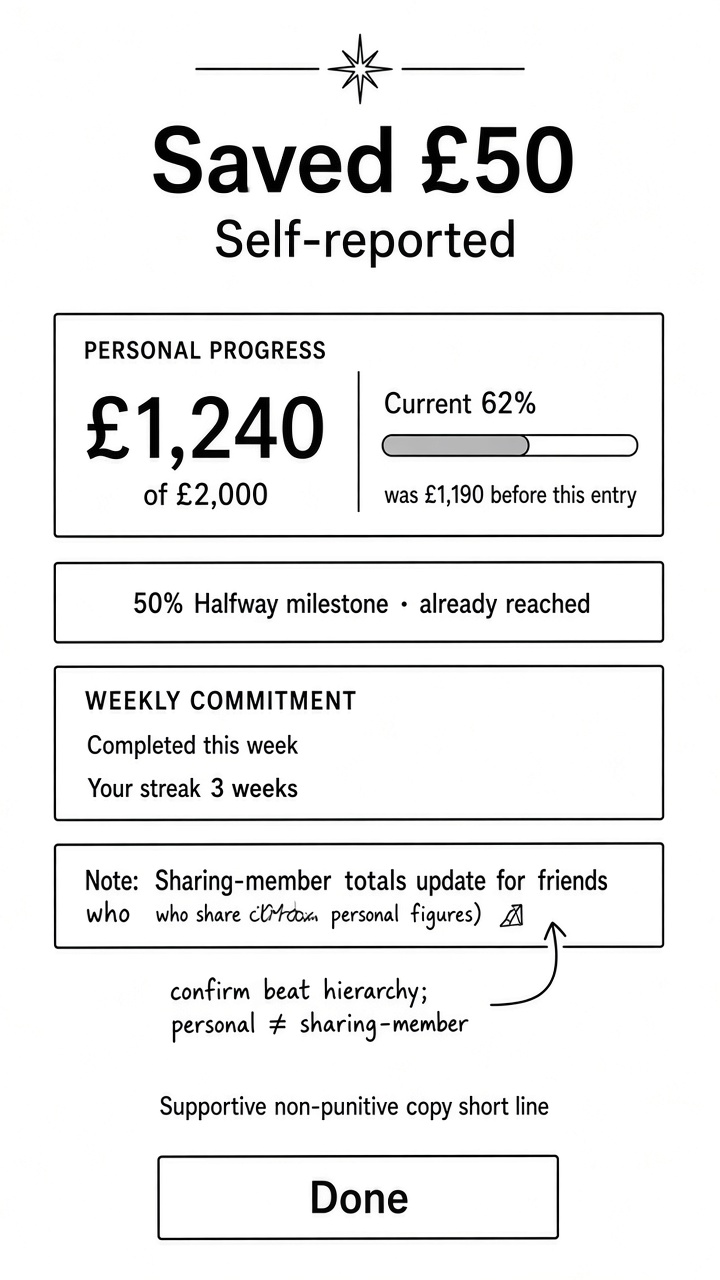
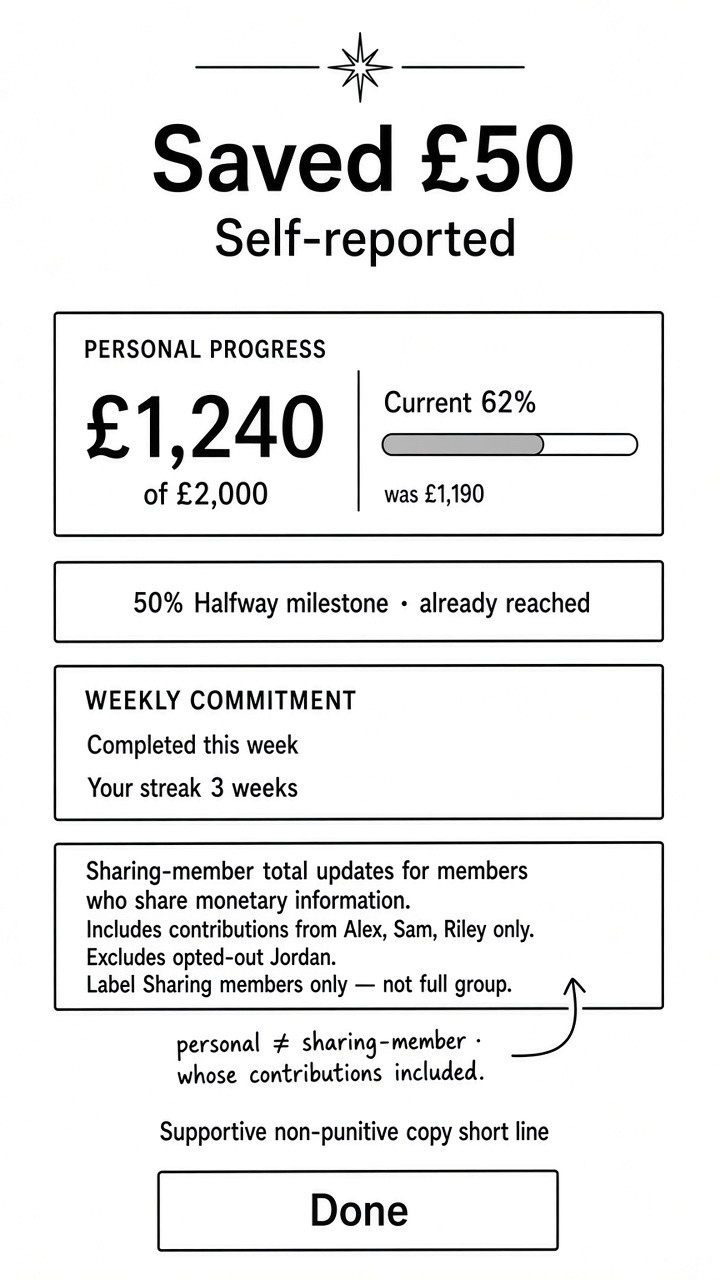
Re-sync corrected A+B wireframes before PO sign-off.
Overwrite wireframe markdown and JPGs (Sam 65%, pre-join privacy disclosure, sharing-member explainers, no Leaderboard on privacy) and keep docs/media/wireframes mirror in sync.

diff --git a/docs/design/wireframes/privacy-flow.md b/docs/design/wireframes/privacy-flow.md
@@ -2,7 +2,7 @@
 
 | Field | Value |
 | --- | --- |
-| Pass | A+B mobile wireframes — authorised structure pass |
+| Pass | A+B mobile wireframes — correction before PO sign-off |
 | Fidelity | Low / annotated wireframe — **not** mid-fi |
 | Rule | G1.1-06 (privacy / sharing-member totals); G1.1-07 (invite preview constraints) |
 | Viewport | Mobile only |
@@ -11,9 +11,9 @@
 
 ## Artifact A — Privacy settings (one monetary control)
 
-<img src="../../media/wireframes/privacy-settings.jpg" alt="Privacy settings wireframe: default visible to approved members, single Hide monetary information opt-out OFF, preview states" />
+<img src="../../../media/wireframes/privacy-settings.jpg" alt="Privacy settings: default visible, opt-out OFF, warning cannot undo prior visibility, Home Challenge Activity Profile nav" />
 
-Path: `media/wireframes/privacy-settings.jpg` (checkout); embed via `../../media/wireframes/privacy-settings.jpg`
+Path: `/cursor/stores/bc-01a1cb7f-3748-76b6-a0c6-6560b08a6ca8/media/wireframes/privacy-settings.jpg`
 
 ### Structure
 
@@ -21,41 +21,42 @@ Path: `media/wireframes/privacy-settings.jpg` (checkout); embed via `../../media
 | --- | --- |
 | Default copy | Monetary information is visible to **approved challenge members** by default |
 | Control | **One** toggle: **Hide monetary information (opt-out)** — default **OFF** |
+| **Warning** | **Opting out cannot undo what others already saw.** |
 | When ON | Hides **amounts AND individual target**; excludes member from **Sharing members only** aggregates |
 | Self view | User always sees own authorised financial information |
 | Preview | Default: Alex · £1,240 of £2,000 · Self-reported · Opted out: Alex · Private · no amount · no target |
 | Totals labelling | **Sharing members only** — not full group |
 | Save | Applies across feed, exports, notifications (product rule) |
+| Bottom nav | **Home · Challenge · Activity · Profile** only — **no Leaderboard** |
 
 ### Must not
 
 - Say “private by default” or imply opt-in-to-share as the default
 - Offer separate toggles for amounts vs targets
+- Show a Leaderboard tab
 - Invent small-group aggregate edge-case UI (open product question)
-
-### Image correction note
-
-Bottom nav in the artifact may vary; canonical working proposal remains **Home · Challenge · Activity · Profile** (exact labels **OPEN**). No leaderboard tab in MVP wireframes.
 
 ---
 
-## Artifact B — Join disclosure (before savings setup)
+## Artifact B — Financial privacy disclosure **before joining**
 
-<img src="../../media/wireframes/privacy-disclosure-join.jpg" alt="Financial privacy disclosure wireframe after approval: default visibility, opt-out explanation, acknowledgement, continue to set target" />
+<img src="../../../media/wireframes/privacy-disclosure-join.jpg" alt="Financial privacy before join: disclosures, cannot-undo warning, acknowledgement prerequisite, Continue to request join disabled until checked" />
 
-Path: `media/wireframes/privacy-disclosure-join.jpg` (checkout); embed via `../../media/wireframes/privacy-disclosure-join.jpg`
+Path: `/cursor/stores/bc-01a1cb7f-3748-76b6-a0c6-6560b08a6ca8/media/wireframes/privacy-disclosure-join.jpg`
 
 ### Structure
 
 | Block | Treatment |
 | --- | --- |
+| Placement | **Before joining** (after invite preview; before request join) |
 | Context | Challenge name only (Portugal 2027) — invite preview never exposed amounts (G1.1-07) |
-| Disclosure 1 | Default: amounts + target visible to approved challenge members |
+| Disclosure 1 | Default: amounts + target visible to approved challenge members after you join |
 | Disclosure 2 | Opt-out **Hide monetary information** hides amounts **and** target; excludes from Sharing members only totals |
 | Disclosure 3 | You always see your own figures |
-| Ack | Checkbox: I understand how monetary visibility works |
-| Primary | Continue to set my target |
-| Secondary | Review privacy settings |
+| **Warning** | **Opting out cannot undo what others already saw.** |
+| Ack | Checkbox: I understand how monetary visibility works — **prerequisite** |
+| Primary | **Continue to request join** — **disabled until acknowledgement is checked** |
+| Secondary | Cancel / back to invite preview |
 
 ### Image correction note
 
@@ -69,11 +70,14 @@ Any multi-step progress indicator is **illustrative only**. Exact join/setup ste
 Profile → Privacy
   → Default copy (approved challenge members)
   → Single opt-out: Hide monetary information
+  → Warning: opting out cannot undo what others already saw
   → Explainer + roster/total preview
   → Save
 
-Invite → Request join → Owner approval
-  → Financial privacy acknowledgement (this disclosure)
+Invite preview (G1.1-07 — no amounts)
+  → Financial privacy disclosure (BEFORE joining)
+  → Acknowledgement required (Continue disabled until checked)
+  → Request join → Owner approval
   → Configure personal target + weekly commitment
   → Then recording savings is allowed
 ```

diff --git a/docs/design/wireframes/README.md b/docs/design/wireframes/README.md
@@ -2,7 +2,7 @@
 
 | Field | Value |
 | --- | --- |
-| Pass | Authorised design pass after Gate 2.2 A+B approval |
+| Pass | Authorised design pass after Gate 2.2 A+B approval (+ pre-sign-off corrections) |
 | Status | **Ready for PO review** — stop here |
 | Fidelity | Mobile wireframes only (grayscale / lightly annotated) |
 | Not authorised yet | Mid-fi polish · implementation · components · installs |
@@ -26,14 +26,14 @@
 
 ### Media (`media/wireframes/`)
 
-| File | Checkout path |
+| File | Absolute path |
 | --- | --- |
-| `dashboard-home.jpg` | `media/wireframes/dashboard-home.jpg` |
-| `challenge-activity.jpg` | `media/wireframes/challenge-activity.jpg` |
-| `contribution-amount.jpg` | `media/wireframes/contribution-amount.jpg` |
-| `contribution-confirm.jpg` | `media/wireframes/contribution-confirm.jpg` |
-| `privacy-settings.jpg` | `media/wireframes/privacy-settings.jpg` |
-| `privacy-disclosure-join.jpg` | `media/wireframes/privacy-disclosure-join.jpg` |
+| `dashboard-home.jpg` | `/cursor/stores/bc-01a1cb7f-3748-76b6-a0c6-6560b08a6ca8/media/wireframes/dashboard-home.jpg` |
+| `challenge-activity.jpg` | `/cursor/stores/bc-01a1cb7f-3748-76b6-a0c6-6560b08a6ca8/media/wireframes/challenge-activity.jpg` |
+| `contribution-amount.jpg` | `/cursor/stores/bc-01a1cb7f-3748-76b6-a0c6-6560b08a6ca8/media/wireframes/contribution-amount.jpg` |
+| `contribution-confirm.jpg` | `/cursor/stores/bc-01a1cb7f-3748-76b6-a0c6-6560b08a6ca8/media/wireframes/contribution-confirm.jpg` |
+| `privacy-settings.jpg` | `/cursor/stores/bc-01a1cb7f-3748-76b6-a0c6-6560b08a6ca8/media/wireframes/privacy-settings.jpg` |
+| `privacy-disclosure-join.jpg` | `/cursor/stores/bc-01a1cb7f-3748-76b6-a0c6-6560b08a6ca8/media/wireframes/privacy-disclosure-join.jpg` |
 
 ---
 
@@ -47,8 +47,10 @@
 | Weekly commitment | **£50** · Completed this week |
 | Streak | **Your streak · 3 weeks** |
 | Sharing-member total | **£3,080 of £5,500** · **Sharing members only** |
-| Roster | Alex / Sam £980 of £1,500 / Riley £860 of £2,000 (43%) / Jordan **Private** |
+| Roster | Alex / Sam £980 of £1,500 (**65%**) / Riley £860 of £2,000 (43%) / Jordan **Private** |
 | Privacy default | Visible to **approved challenge members**; **opt-out** hides amounts **and** target |
+| Privacy warning | Opting out **cannot undo** what others already saw |
+| Join disclosure | **Before joining**; acknowledgement **prerequisite** to continue |
 
 ---
 
@@ -58,6 +60,11 @@
 - [x] **50% milestone** shown separately from **62% current**
 - [x] Weekly commitment + **Your streak**
 - [x] Sharing-member aggregate labelled (not full-group total)
+- [x] Contribution screens explain **whose** contributions are included (Alex/Sam/Riley; excludes Jordan)
+- [x] Sam roster progress **65%** with matching bar
+- [x] Privacy disclosure **before joining**; ack prerequisite
+- [x] Opt-out warning: cannot undo prior visibility
+- [x] No Leaderboard tab on privacy sketch
 - [x] Privacy cues (Private lock; default ≠ private-by-default)
 - [x] Synthetic **self-reported** labelling
 - [x] Pause treated as status-only — no invented duration/resume
@@ -89,6 +96,14 @@ Local watched-folder re-sync: **coordinator-dispatched** after Context lands —
 
 ---
 
-## 6. Artifact caveats (for reviewers)
+## 6. Pre-sign-off corrections (this pass)
 
-Wireframe images are structure studies. Prefer markdown hierarchy tables when an image label drifts (e.g. “Best streak” → **Your streak**; non-canonical bottom-nav icons; illustrative join step counts). Content authority for sample figures and privacy copy is this pack’s markdown + Gate 2.2 reconciled set.
+1. Financial privacy disclosure moved to **before joining**; Continue disabled until acknowledgement.
+2. Warning added on disclosure + privacy settings: opting out **cannot undo** what others already saw.
+3. **Leaderboard** removed from privacy bottom nav (Home · Challenge · Activity · Profile only).
+4. Both contribution screens + notes explain whose contributions are in the **sharing-member total**.
+5. Sam progress corrected to **65%** with updated bar on challenge activity.
+
+## 7. Artifact caveats (for reviewers)
+
+Wireframe images are structure studies. Prefer markdown hierarchy tables when an image label drifts (e.g. “Best streak” → **Your streak**; illustrative join step counts). Content authority for sample figures and privacy copy is this pack’s markdown + Gate 2.2 reconciled set (with Sam **65%** correction above).

diff --git a/docs/design/wireframes/contribution-flow.md b/docs/design/wireframes/contribution-flow.md
@@ -2,7 +2,7 @@
 
 | Field | Value |
 | --- | --- |
-| Pass | A+B mobile wireframes — authorised structure pass |
+| Pass | A+B mobile wireframes — correction before PO sign-off |
 | Fidelity | Low / annotated wireframe — **not** mid-fi |
 | Direction | A+B |
 | Viewport | Mobile only |
@@ -14,9 +14,9 @@
 
 ### Step A — Amount entry
 
-<img src="../../media/wireframes/contribution-amount.jpg" alt="Record savings wireframe: £50 amount, date, self-reported labelling, Continue to confirm" />
+<img src="../../../media/wireframes/contribution-amount.jpg" alt="Record savings: £50, self-reported, sharing-member total includes Alex Sam Riley excludes Jordan" />
 
-Path: `media/wireframes/contribution-amount.jpg` (checkout); embed via `../../media/wireframes/contribution-amount.jpg`
+Path: `/cursor/stores/bc-01a1cb7f-3748-76b6-a0c6-6560b08a6ca8/media/wireframes/contribution-amount.jpg`
 
 | Element | Wireframe treatment |
 | --- | --- |
@@ -26,16 +26,16 @@ Path: `media/wireframes/contribution-amount.jpg` (checkout); embed via `../../me
 | Date | Within permitted period (sample date only) |
 | Labelling | **Self-reported** · not a bank deposit |
 | Helper | Updates personal progress + weekly commitment |
-| Privacy note | Sharing-member totals update only for friends who share (G1.1-06) |
+| **Sharing-member total explainer** | Includes contributions and targets **only from members who share monetary information** (sample: **Alex, Sam, Riley**). **Excludes** opted-out members (**Jordan**). Label: **Sharing members only** — not the full group. |
 | Actions | Cancel · Continue to confirm |
 
 No invented backdating / week-allocation UI (G1.1-05 open items remain open).
 
 ### Step B — Confirmation
 
-<img src="../../media/wireframes/contribution-confirm.jpg" alt="Contribution confirm: Saved £50, personal £1,240/£2,000 at 62%, separate 50% Halfway already reached, Your streak 3, Done" />
+<img src="../../../media/wireframes/contribution-confirm.jpg" alt="Confirm Saved £50: personal 62%, separate 50% Halfway, sharing-member total includes Alex Sam Riley only" />
 
-Path: `media/wireframes/contribution-confirm.jpg` (checkout); embed via `../../media/wireframes/contribution-confirm.jpg`
+Path: `/cursor/stores/bc-01a1cb7f-3748-76b6-a0c6-6560b08a6ca8/media/wireframes/contribution-confirm.jpg`
 
 ### Confirm hierarchy (reconciled beat)
 
@@ -45,7 +45,7 @@ Path: `media/wireframes/contribution-confirm.jpg` (checkout); embed via `../../m
 | 2 | Personal progress | Now **£1,240 of £2,000** · **Current 62%** (from £1,190) |
 | 2b | Milestone (separate) | **50% Halfway milestone · already reached** — not conflated with 62% |
 | 3 | Weekly commitment | Completed this week · **Your streak · 3 weeks** |
-| 4 | Sharing-member note | Totals update for friends who share — distinct from personal figures |
+| 4 | **Sharing-member total explainer** | Updates for members who share monetary information. Includes contributions from **Alex, Sam, Riley only**. Excludes opted-out **Jordan**. Label **Sharing members only** — not full group. Distinct from personal figures. |
 | 5 | Tone | Supportive, non-punitive (placeholder copy in wireframe) |
 | 6 | CTA | **Done** |
 

diff --git a/docs/design/wireframes/challenge-activity.md b/docs/design/wireframes/challenge-activity.md
@@ -2,7 +2,7 @@
 
 | Field | Value |
 | --- | --- |
-| Pass | A+B mobile wireframes — authorised structure pass |
+| Pass | A+B mobile wireframes — correction before PO sign-off |
 | Fidelity | Low / annotated wireframe — **not** mid-fi |
 | Direction | A+B; C as personal vs sharing-member reference |
 | Viewport | Mobile only |
@@ -12,9 +12,9 @@
 
 ## Artifact
 
-<img src="../../media/wireframes/challenge-activity.jpg" alt="Challenge activity wireframe: Your streak, roster with Alex 62% and separate 50% Halfway, Jordan Private, sharing-member total" />
+<img src="../../../media/wireframes/challenge-activity.jpg" alt="Challenge activity: Your streak, Alex 62% + separate 50% Halfway, Sam 65%, Jordan Private, sharing-member total" />
 
-Path: `media/wireframes/challenge-activity.jpg` (checkout); embed via `../../media/wireframes/challenge-activity.jpg`
+Path: `/cursor/stores/bc-01a1cb7f-3748-76b6-a0c6-6560b08a6ca8/media/wireframes/challenge-activity.jpg`
 
 ---
 
@@ -25,8 +25,10 @@ Path: `media/wireframes/challenge-activity.jpg` (checkout); embed via `../../med
 | 1 | Challenge header | Portugal 2027 · Save together for the trip |
 | 2 | **Your streak** / commitment strip | **3 weeks** · This week £50 Completed — **before** feed |
 | 3 | **Roster** | Personal figures where sharing; opted-out as Private |
-| 4 | **Sharing-member total** | £3,080 of £5,500 · **Sharing members only** |
+| 4 | **Sharing-member total** | £3,080 of £5,500 · **Sharing members only** (Alex+Sam+Riley; excludes Jordan) |
 | 5 | **Activity feed** | Approved MVP event types only |
+
+Bottom nav: **Home · Challenge · Activity · Profile** — **no Leaderboard**.
 
 ---
 
@@ -35,14 +37,14 @@ Path: `media/wireframes/challenge-activity.jpg` (checkout); embed via `../../med
 | Member | What others see |
 | --- | --- |
 | Alex (you) | £1,240 of £2,000 · **Current 62%** · Self-reported · separate **50% Halfway · reached** |
-| Sam | £980 of £1,500 · **no** Halfway chip |
+| Sam | £980 of £1,500 · **Current 65%** · bar ~65% · **no** Halfway chip |
 | Riley | £860 of £2,000 · **43%** · **not** a 50% milestone |
 | Jordan | **Private** · lock · **no** amount · **no** target |
-| **Sharing-member total** | **£3,080 of £5,500** (Alex+Sam+Riley; excludes Jordan) |
+| **Sharing-member total** | **£3,080 of £5,500** (Alex+Sam+Riley contributions/targets; excludes Jordan) |
 
 ### Image correction note
 
-If the artifact ever reads “Best streak,” treat canonical label as **Your streak**. Halfway recognition belongs to **Alex only** (past 50% at 62% current).
+If the artifact ever reads “Best streak,” treat canonical label as **Your streak**. Halfway recognition belongs to **Alex only** (past 50% at 62% current). Sam percentage is **65%** (£980 of £1,500).
 
 ---
 

diff --git a/docs/design/wireframes/flows-overview.md b/docs/design/wireframes/flows-overview.md
@@ -2,7 +2,7 @@
 
 | Field | Value |
 | --- | --- |
-| Pass | A+B mobile wireframes — authorised structure pass |
+| Pass | A+B mobile wireframes — correction before PO sign-off |
 | Fidelity | Flow map tying wireframe screens — **not** mid-fi |
 | IA labels | Working proposals only |
 
@@ -56,8 +56,10 @@ Owner: Challenge → Invite → private link (expires 7 days default — G1.1-14
 Invitee preview (G1.1-07) may show ONLY:
   name · description · start · end · participant count
 Must NOT show: targets, amounts, financial totals, member financial activity
+→ Financial privacy disclosure BEFORE joining (see privacy-flow.md)
+  · Warning: opting out cannot undo what others already saw
+  · Acknowledgement is a prerequisite (Continue disabled until checked)
 → Request join → Owner approval
-→ Financial privacy acknowledgement (see privacy-flow.md)
 → Configure personal target + weekly commitment before recording savings
 ```
 
@@ -74,6 +76,8 @@ Home / Challenge → Record savings
 
 Canonical confirm sample: Saved £50 → personal **£1,240 of £2,000 (62%)** · separate **50% Halfway already reached** · **Your streak 3**.
 
+Both contribution screens explain **whose contributions** are in the sharing-member total: **Alex, Sam, Riley** included; **Jordan** excluded (Sharing members only).
+
 Backdating / week allocation — **OPEN**.
 
 ---
@@ -81,11 +85,13 @@ Backdating / week allocation — **OPEN**.
 ## 4. Privacy
 
 ```
+Invite preview → Financial privacy disclosure BEFORE joining
+  → Acknowledgement prerequisite → Request join → …
 Profile → Privacy (one monetary control)
-  OR join disclosure → acknowledgement → target setup
+  → Warning: opting out cannot undo what others already saw
 ```
 
-Default = visible to approved challenge members; **opt-out** hides amounts **and** target; aggregates = **sharing members only** (G1.1-06).
+Default = visible to approved challenge members; **opt-out** hides amounts **and** target; aggregates = **sharing members only** (G1.1-06). Bottom nav: **no Leaderboard**.
 
 ---
 

diff --git a/docs/design/wireframes/dashboard.md b/docs/design/wireframes/dashboard.md
@@ -12,9 +12,9 @@
 
 ## Artifact
 
-<img src="../../media/wireframes/dashboard-home.jpg" alt="Dashboard wireframe: personal £1,240/£2,000 at 62%, separate 50% Halfway, Your streak 3, sharing-member £3,080/£5,500" />
+<img src="../../../media/wireframes/dashboard-home.jpg" alt="Dashboard wireframe: personal £1,240/£2,000 at 62%, separate 50% Halfway, Your streak 3, sharing-member £3,080/£5,500" />
 
-Path: `media/wireframes/dashboard-home.jpg` (checkout); embed via `../../media/wireframes/dashboard-home.jpg`
+Path: `/cursor/stores/bc-01a1cb7f-3748-76b6-a0c6-6560b08a6ca8/media/wireframes/dashboard-home.jpg`
 
 ---
 
